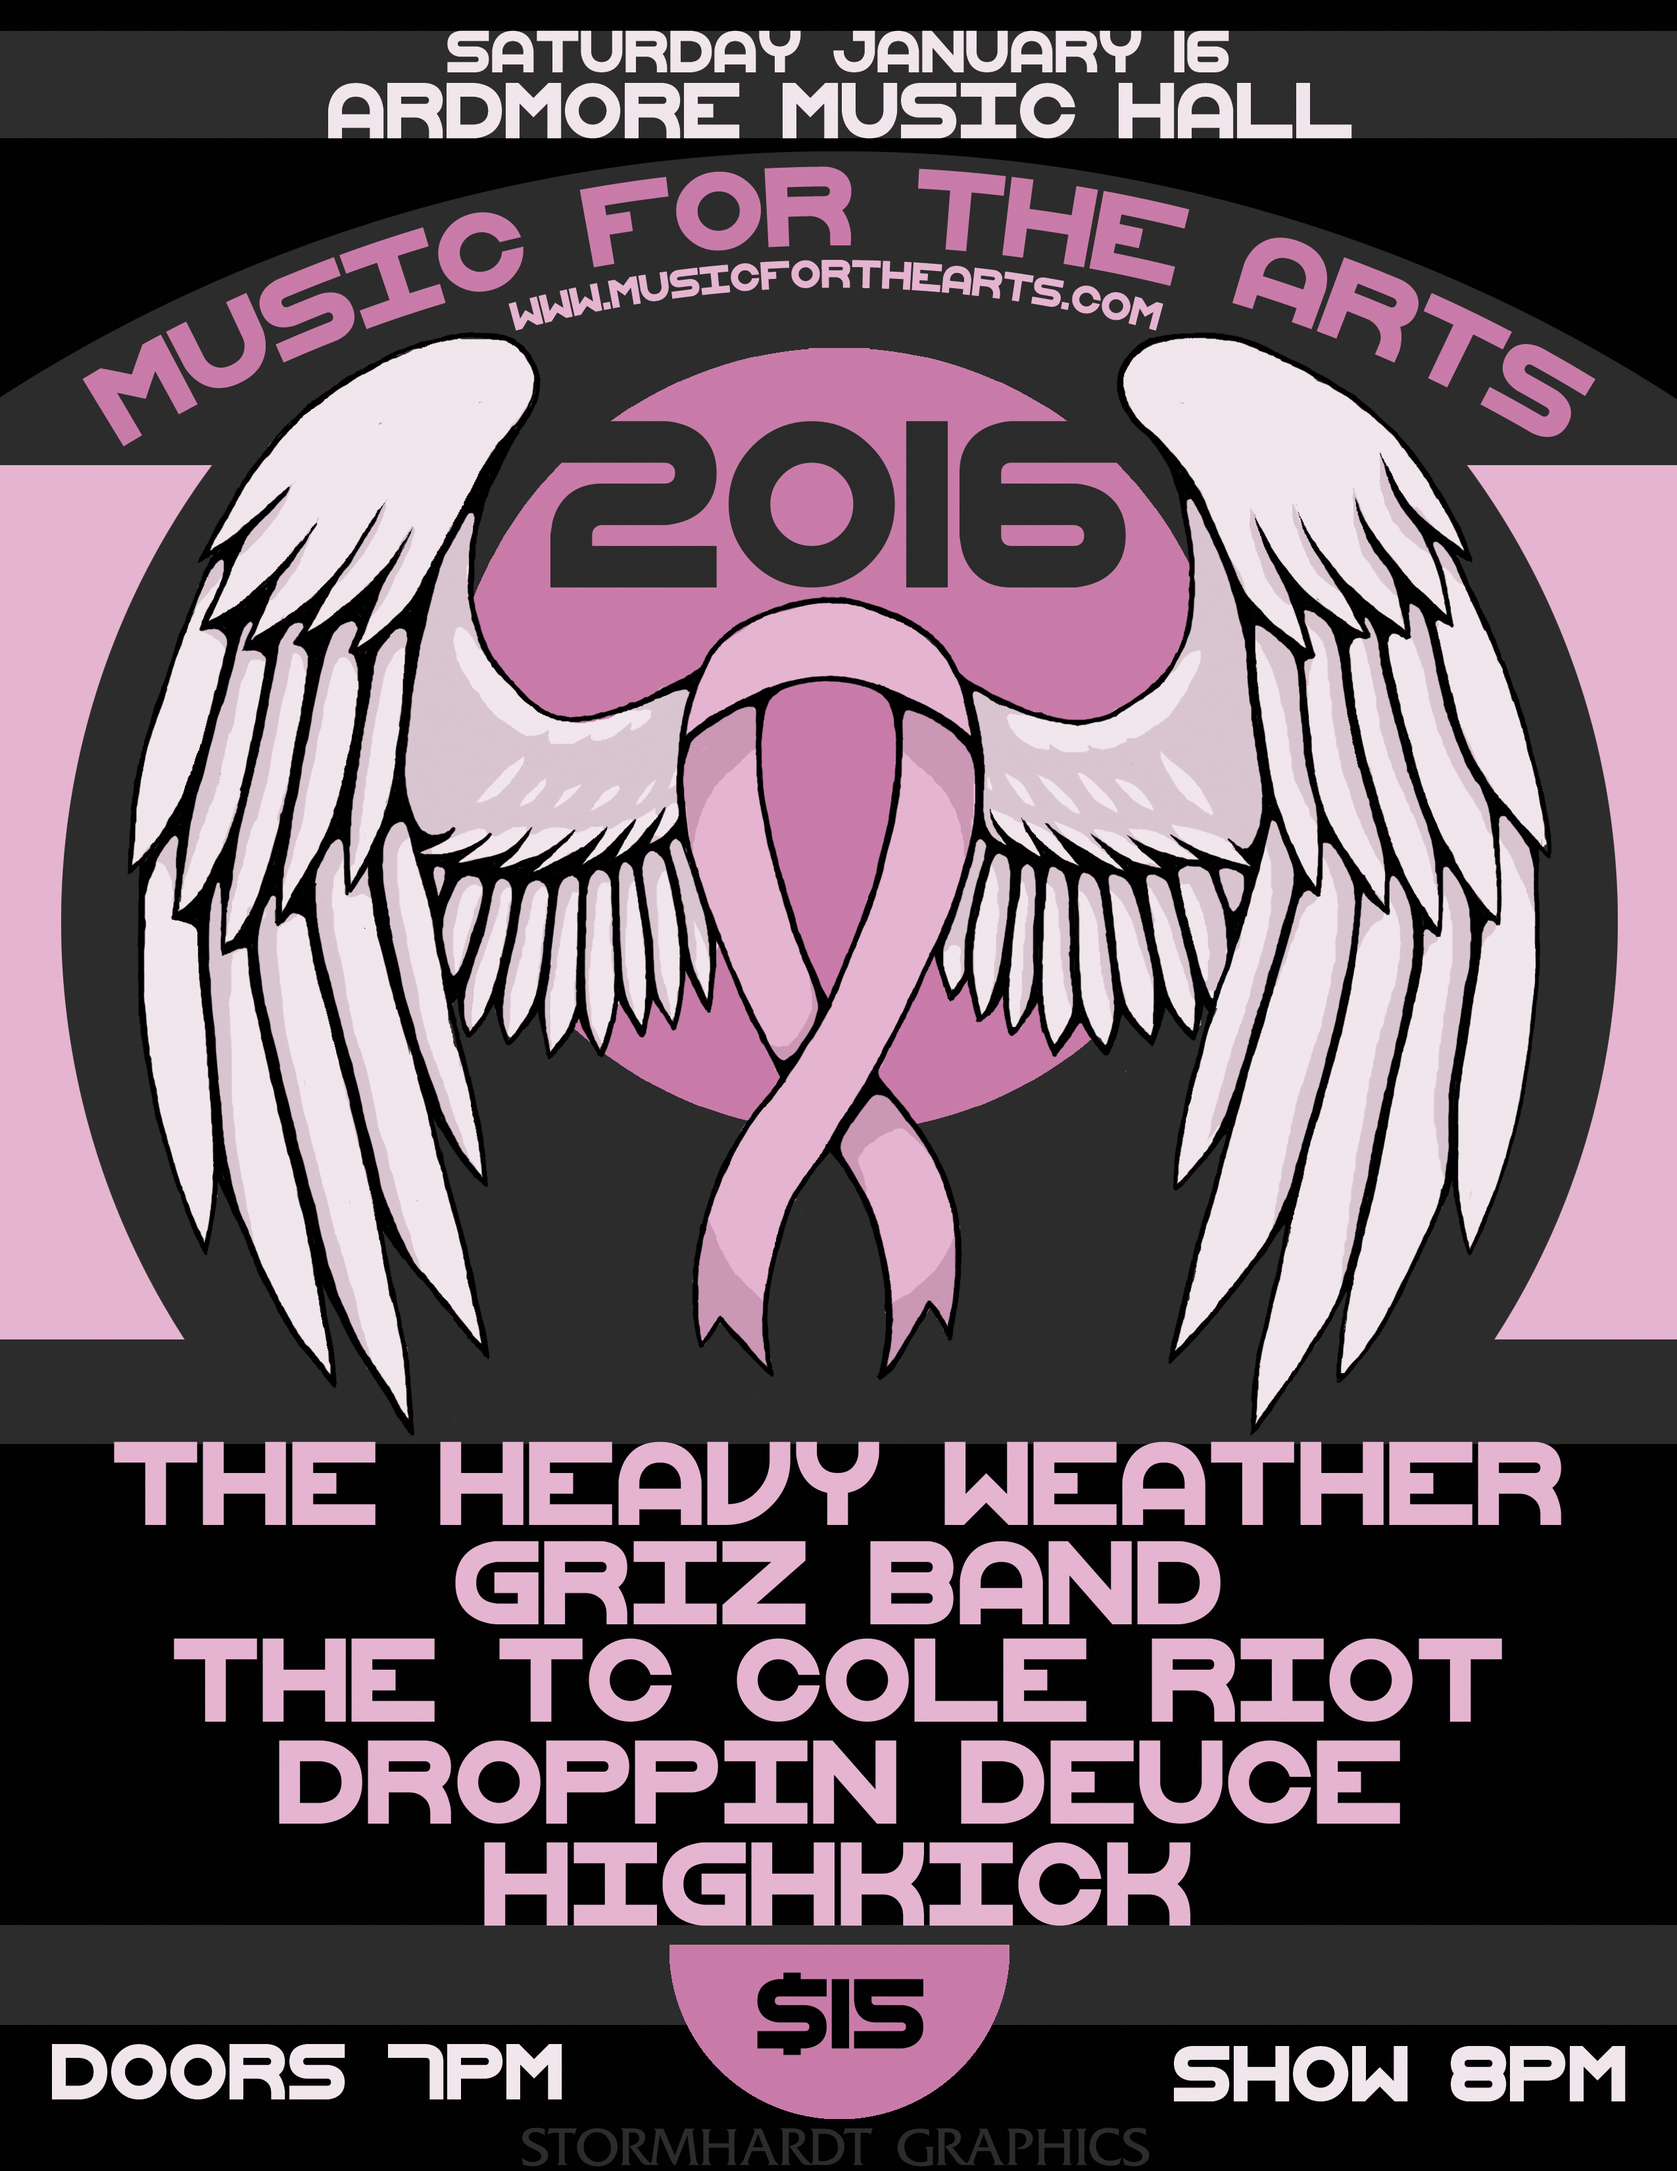
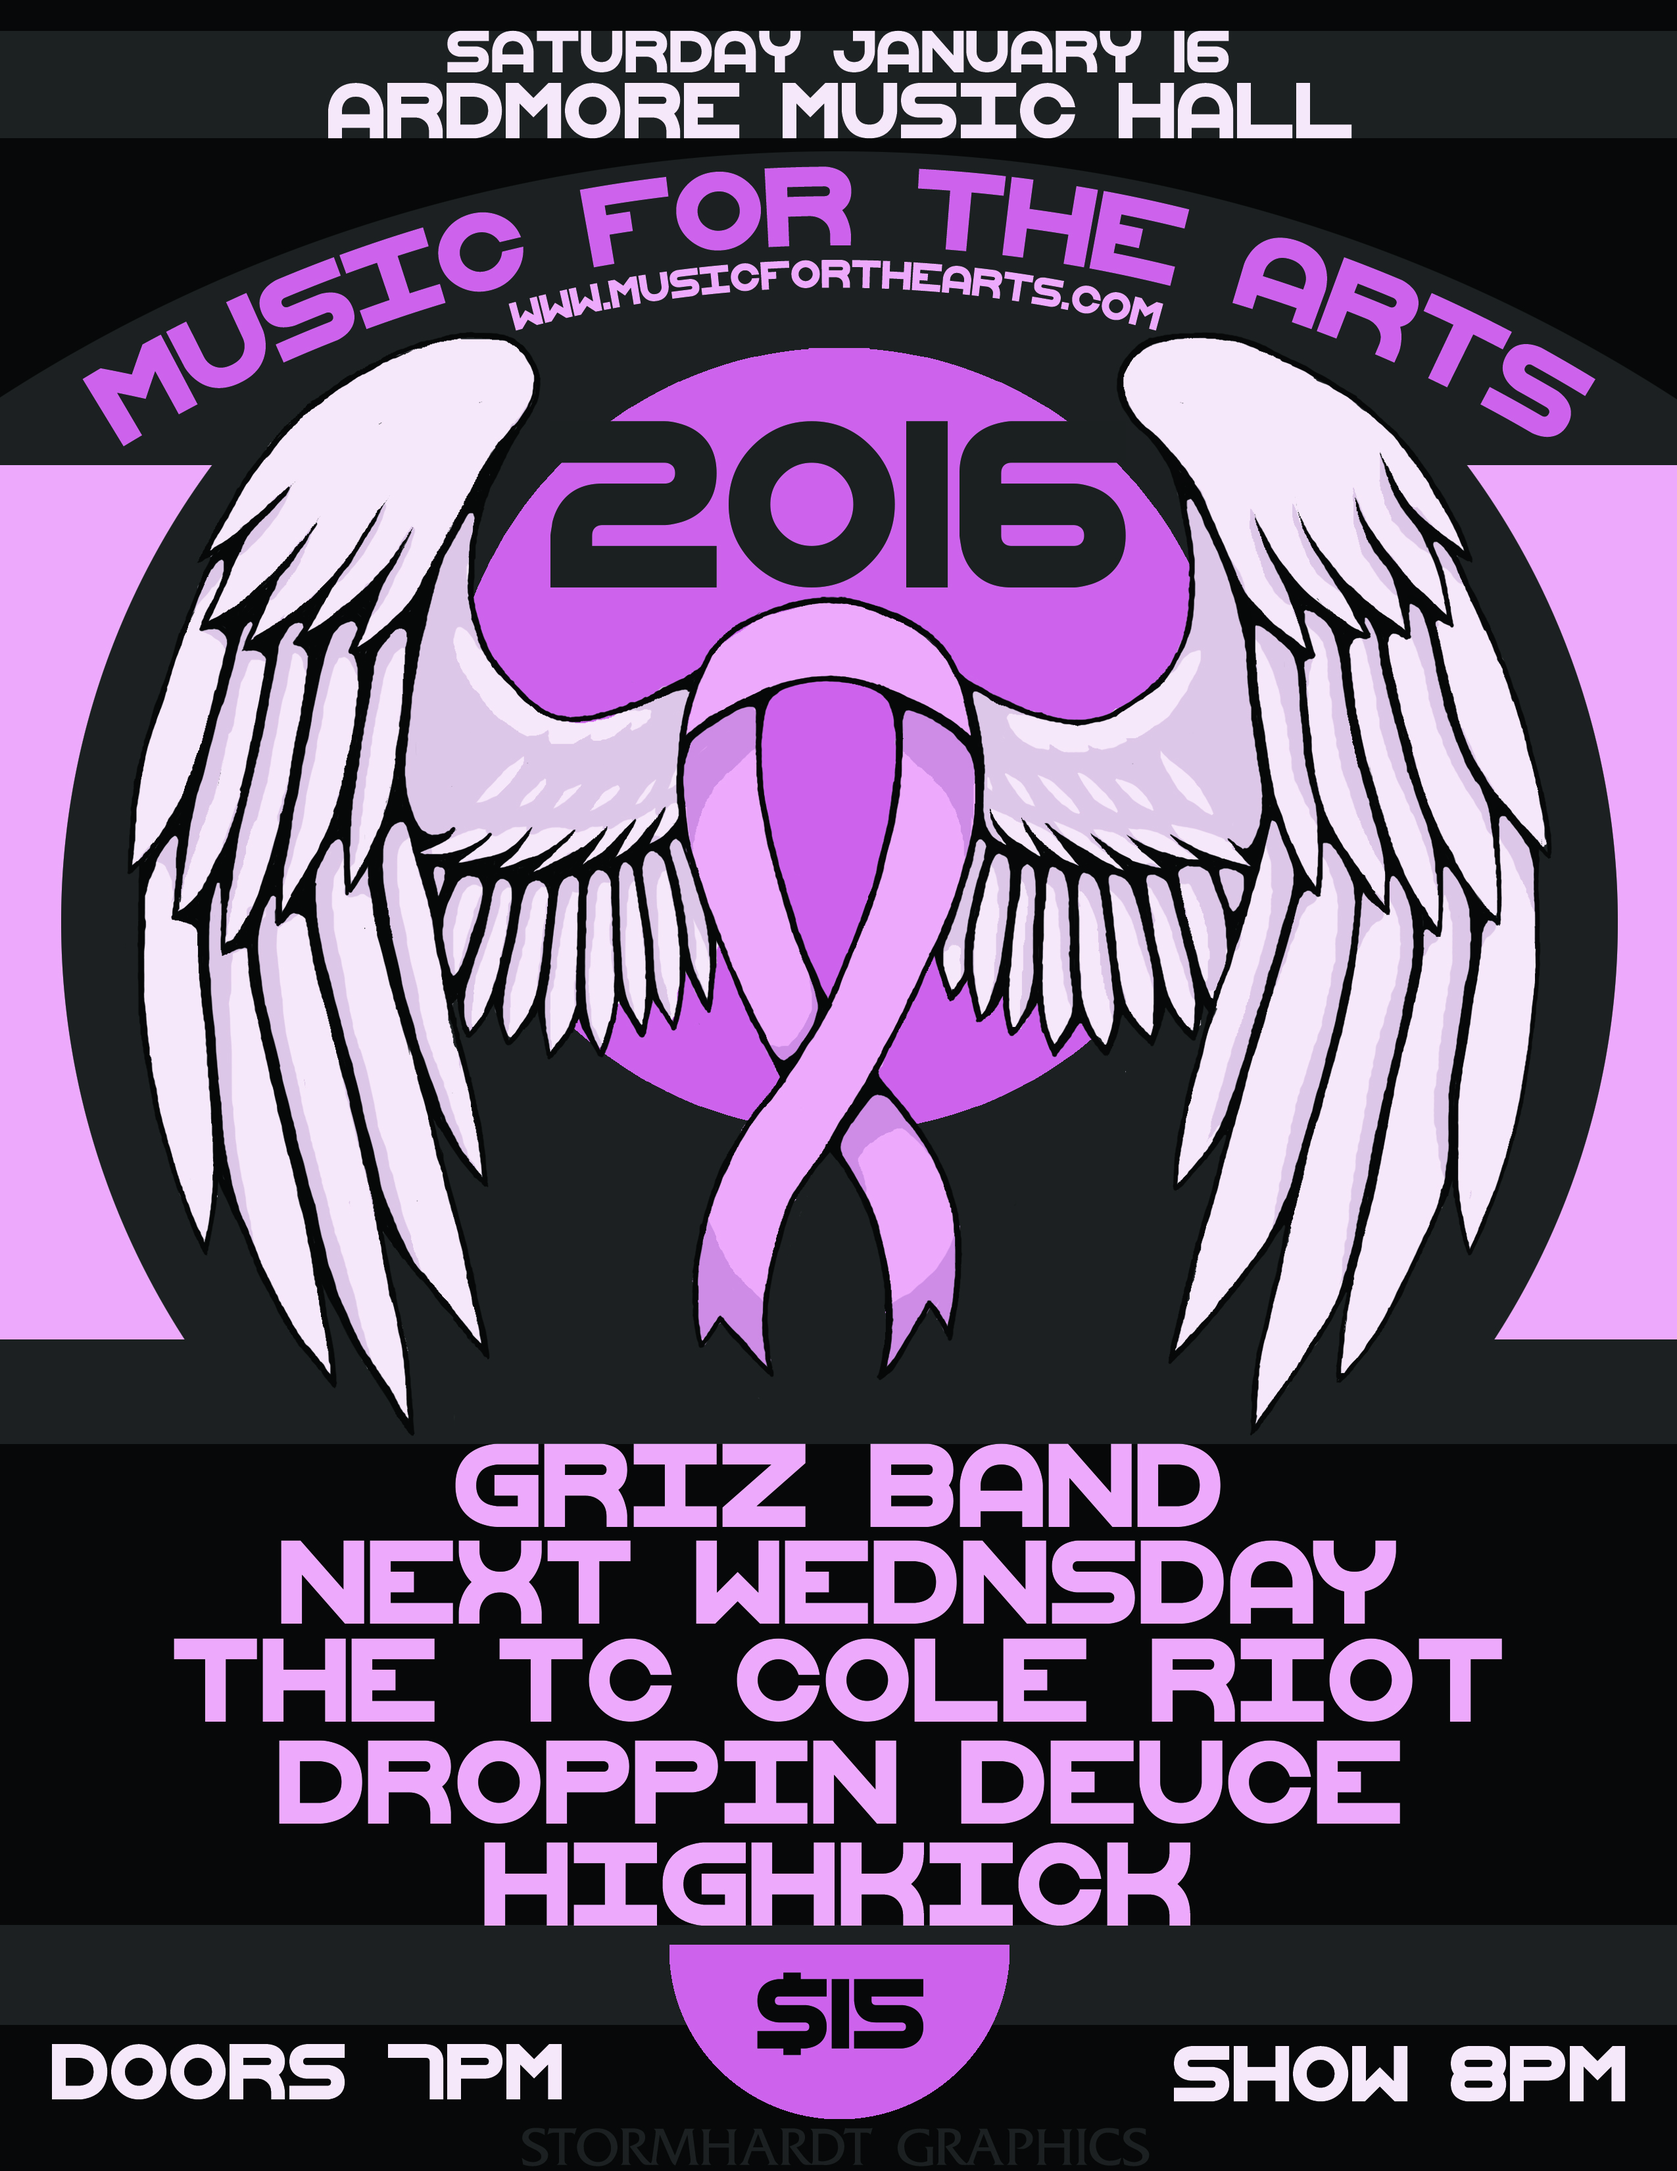
New lineup update

diff --git a/event.html b/event.html
@@ -66,9 +66,9 @@
 
 <!--         <p class="tk"><strong>2016 EVENT DETAILS COMING SOON</strong></p>-->
         <section class="eventDetails">
-          <h3>2016 DETAILS</h3>
-          <h4>January 16, 2016<br>The Ardmore Music Hall</h4>
-          <h5>$15 donation/entrance fee at the door</h5>
+<!--          <h3>2016 DETAILS</h3>-->
+          <h3>January 16, 2016<br>The Ardmore Music Hall</h3>
+          <h4>$15 donation/entrance fee at the door</h4>
           <div id="map"></div>
           <script type="text/javascript">
 
@@ -110,36 +110,16 @@
             <section class="lineup container">
               <div class="row">
                 <div class="six columns band">
-                  <a href="#">
-                      <img src="img/droppindeuce.jpg"><h4>Droppin&#39; Deuce</h4>
-                  </a>
-                  <p>Christina's brothers, naturally, perform every year. Brian on the drums. Jason on the Bass. They are Droppin&#39; Deuce.</p>
-                </div>
-<!--                <div class="six columns band">
-                  <a href="http://www.cdbaby.com/Artist/HuntersCannon">
-                      <img src="img/MFTAphotos/horiz/DoertheExternest/photo20.jpg"><h4>Hunter&#39;s Cannon</h4>
-                  </a>
-                  <p>Hunter's Cannon calls Philadelphia and its suburbs home. They burst onto the Philly music scene like a shotgun blast, playing several weekly gigs for their first two years. Legend holds that the band has only had two "official" practices; they prefer to work out their songs live. </p>
-                </div>-->
-                <div class="six columns band">
-                  <a href="http://www.theheavyweather.com/">
-                      <img src="img/MFTAphotos/horiz/the-heavy-weather.jpg"><h4>The Heavy Weather</h4>
-                  </a>
-                  <p>The Heavy Weather is 6 piece rock and roll band channeling the energy of the greats like The Stones or The Doors. It's an awesome mix of modern originality and 70s rock that's sure to electrify the crowd. With members James Rossi and Michael Masciantonio on guitar, Justin Mansor on bass, Guillermo Gomez on the keys, Mickey Bench on drums and Joe "The Lion" Rossi bringing the lead vocals. They are forecast as Ardmore's perfect rock and roll storm.</p>
-                </div>
-              </div>
-              <div class="row">
-                <div class="six columns band">
-                  <a href="https://www.reverbnation.com/highkick">
-                      <img src="img/MFTAphotos/horiz/DoertheExternest/photo02.jpg"><h4>HighKick</h4>
-                  </a>
-                  <p>HighKick is a West Philadelphia based band who continue to evolve and challenge themselves as performers. Presenting their fans with improvisational jams, layered indie sagas, bluegrass singalongs and a trilogy of Christmas Musicals to boot. HighKick aim to please and shoot to kill.</p>
-                </div>
-                <div class="six columns band">
                   <a href="https://www.reverbnation.com/chrisgrunwald">
                       <img src="img/MFTAphotos/horiz/DoertheExternest/photo12.jpg"><h4>The Griz Band</h4>
                   </a>
                   <p>Affectionately known by all who love him as Griz (and currently performing under that pseudonym), singer, songwriter and multi-instrumentalist, Chris Grunwald, is a maverick in the Philadelphia music community. Loosely described as an Americana-Folk artist, his work defies an easy pigeonhole as it effortlessly pushes the boundaries of compatible genres including reggae, rock, alternative and country, while still maintaining his unique and recognizable signature sounds.</p>
+                </div>
+                <div class="six columns band">
+                  <a href="https://www.facebook.com/Next-Wednesday-152628211418625/">
+                      <img src="img/MFTAphotos/horiz/NextWednesday.jpg"><h4>Next Wednesday</h4>
+                  </a>
+                  <p>Formed in 2011, Next Wednesday is a band of musical brethren whose sounds are influenced by the behemoths of rock and roll and nuanced by their passion for folk, blues, pop, and improvisational jams. Despite their limited appearances, their fan-base continues to grow exponentially, largely due to the popularity of their annual Black Friday show which draws hundreds of people from throughout the Delaware Valley to experience a memorable night of the band's unique interpretations of songs from the most prolific and iconic rock bands in history.</p>
                 </div>
               </div>
               <div class="row">
@@ -149,15 +129,33 @@
                   </a>
                   <p>The Riot is a collective effort of musicians surrounding the songwriting of TC Cole, stylistically coming from Folk, Punk, Country and Blues music.</p>
                 </div>
-<!--
+                <div class="six columns band">
+                  <a>
+                      <img src="img/droppindeuce.jpg"><h4>Droppin&#39; Deuce</h4>
+                  </a>
+                  <p>Christina's brothers, naturally, perform every year. Brian on the drums. Jason on the Bass. They are Droppin&#39; Deuce.</p>
+                </div>
+              </div>
+              <div class="row">
+                <div class="six columns band">
+                  <a href="https://www.reverbnation.com/highkick">
+                      <img src="img/MFTAphotos/horiz/DoertheExternest/photo02.jpg"><h4>HighKick</h4>
+                  </a>
+                  <p>HighKick is a West Philadelphia based band who continue to evolve and challenge themselves as performers. Presenting their fans with improvisational jams, layered indie sagas, bluegrass singalongs and a trilogy of Christmas Musicals to boot. HighKick aim to please and shoot to kill.</p>
+                </div>
+              </div>
+
+
+           </section>
+<!--              <div class="row">
+
                 <div class="six columns band">
                   <a href="#">
                       <img src="img/band1.jpg"><h4>Droppin&#39; Deuce</h4>
                   </a>
                   <p>This band is comprised of two dudes who love being dudes. And stuff. More stuff will go here but these dudes are just dudes for the time being.</p>
                 </div>
--->
-              </div>
+              </div>-->
             
     </div> 
     </div>

diff --git a/css/main.css b/css/main.css
@@ -337,8 +337,16 @@ h2 {
 }
 
 h3 {
-  font-size: 40px;
+  font-size: 2.5em;
   line-height: .9;
+}
+
+h4 {
+  font-size: 2em;
+}
+
+h5 {
+  font-size: 1.6em;
 }
 
 span#thinTitle {
@@ -417,11 +425,7 @@ MAIN CONTENT
 .eventDetails h4,
 .eventDetails h5 {
   margin-bottom: .4em;
-}
-
-.eventDetails h4,
-.eventDetails h5 {
-  font-family: 'bebas_neue_regularregular';
+  font-family: 'bebas_neuelight';
 }
 
 
@@ -658,6 +662,9 @@ ul li {
   transition: all .2s ease-in-out;
 }
 
+h5 {
+  font-size: 1.4em;
+}
 
 .band a:hover {
     -moz-filter: brightness(160%);
@@ -681,7 +688,6 @@ h4 {
     -webkit-margin-after: 0;
     -webkit-margin-start: 0px;
     -webkit-margin-end: 0px;
-  font-size: 24px;
 }
 
 #slideshow {
